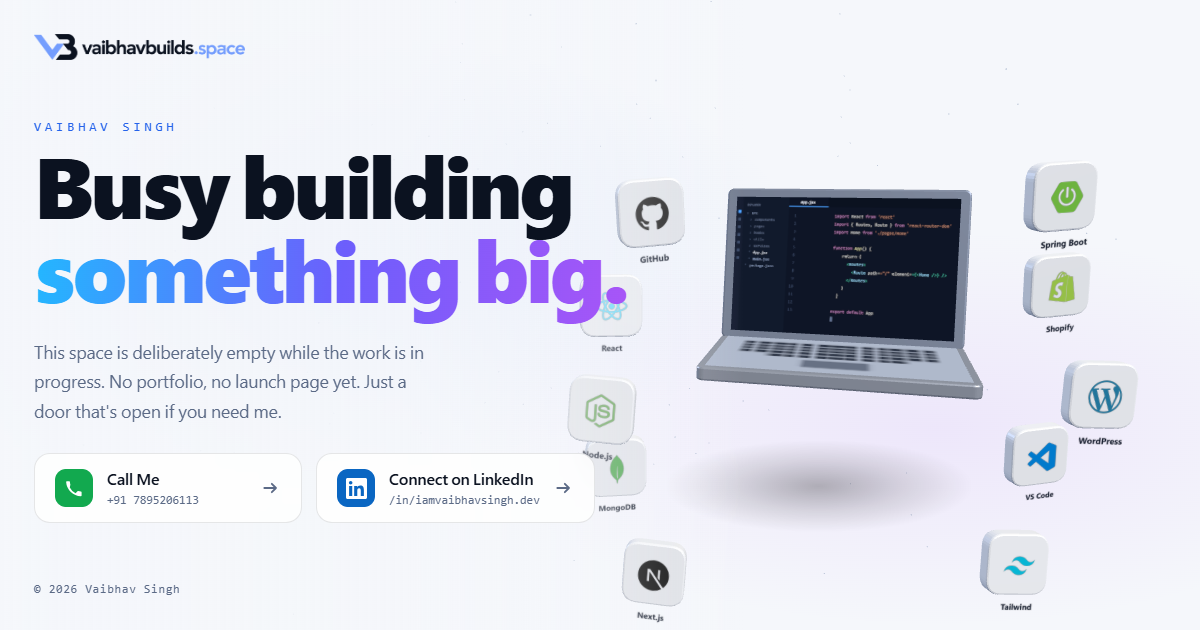
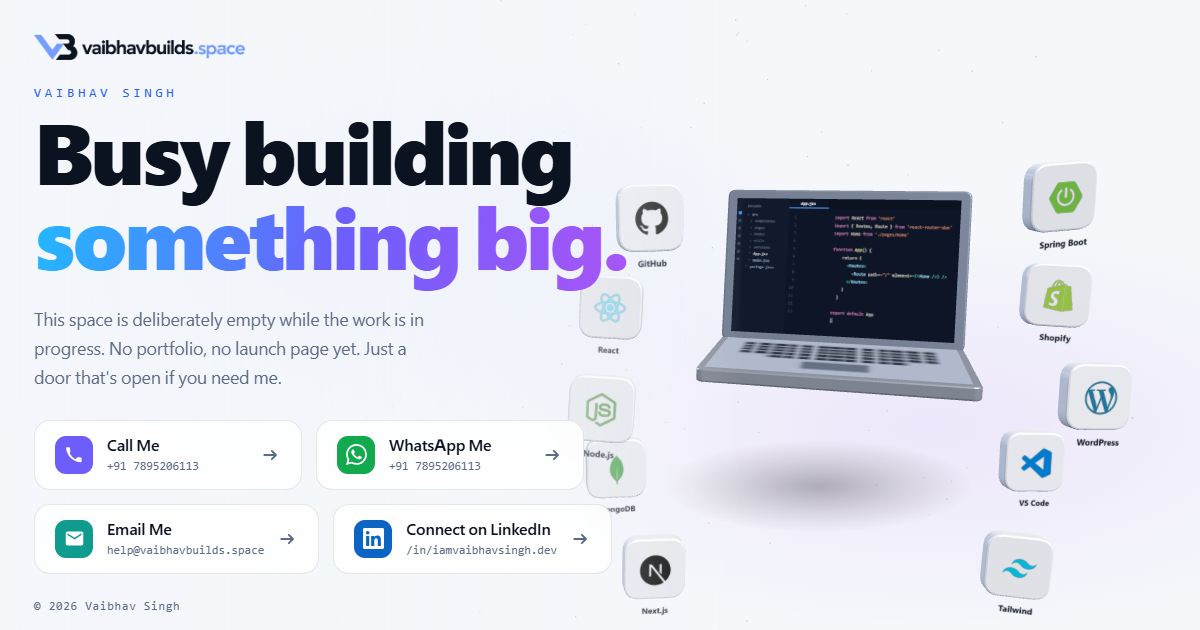
Add WhatsApp and Email CTAs, give Call Me a tel: link
Four contact cards now: phone call, WhatsApp chat, email and LinkedIn.
Each keeps its own accent. The 3D band shrinks to whatever the taller
copy leaves, so the cluster never sits behind the headline on short
phones, and the contact shadow follows the laptop instead of the ring.

diff --git a/index.html b/index.html
@@ -32,6 +32,7 @@
   "@context": "https://schema.org",
   "@type": "Person",
   "name": "Vaibhav Singh",
+  "email": "mailto:help@vaibhavbuilds.space",
   "url": "https://vaibhavbuilds.space/",
   "sameAs": [
     "https://www.linkedin.com/in/iamvaibhavsingh.dev",
@@ -62,8 +63,8 @@
     </p>
 
     <div class="actions">
-      <a class="btn" href="https://wa.me/917895206113?text=Hi%20Vaibhav%2C%20I%20found%20your%20site%20vaibhavbuilds.space" target="_blank" rel="noopener">
-        <span class="btn__icon btn__icon--wa">
+      <a class="btn btn--call" href="tel:+917895206113">
+        <span class="btn__icon">
           <svg viewBox="0 0 24 24" aria-hidden="true"><path d="M6.62 10.79a15.05 15.05 0 0 0 6.59 6.59l2.2-2.2a.86.86 0 0 1 .88-.21c.96.32 1.99.49 3.05.49a.78.78 0 0 1 .78.78V20a.78.78 0 0 1-.78.78A17.5 17.5 0 0 1 2.44 4.5a.78.78 0 0 1 .78-.78H6a.78.78 0 0 1 .78.78c0 1.06.17 2.09.49 3.05a.86.86 0 0 1-.21.88Z"/></svg>
         </span>
         <span class="btn__txt">
@@ -75,8 +76,34 @@
         </span>
       </a>
 
-      <a class="btn" href="https://www.linkedin.com/in/iamvaibhavsingh.dev" target="_blank" rel="noopener">
-        <span class="btn__icon btn__icon--li">
+      <a class="btn btn--wa" href="https://wa.me/917895206113?text=Hi%20Vaibhav%2C%20I%20found%20your%20site%20vaibhavbuilds.space" target="_blank" rel="noopener">
+        <span class="btn__icon">
+          <svg viewBox="0 0 24 24" aria-hidden="true"><path d="M17.472 14.382c-.297-.149-1.758-.867-2.03-.967-.273-.099-.471-.148-.67.15-.197.297-.767.966-.94 1.164-.173.199-.347.223-.644.075-.297-.15-1.255-.463-2.39-1.475-.883-.788-1.48-1.761-1.653-2.059-.173-.297-.018-.458.13-.606.134-.133.298-.347.446-.52.149-.174.198-.298.298-.497.099-.198.05-.371-.025-.52-.075-.149-.669-1.612-.916-2.207-.242-.579-.487-.5-.669-.51-.173-.008-.371-.01-.57-.01-.198 0-.52.074-.792.372-.272.297-1.04 1.016-1.04 2.479 0 1.462 1.065 2.875 1.213 3.074.149.198 2.096 3.2 5.077 4.487.709.306 1.262.489 1.694.625.712.227 1.36.195 1.871.118.571-.085 1.758-.719 2.006-1.413.248-.694.248-1.289.173-1.413-.074-.124-.272-.198-.57-.347m-5.421 7.403h-.004a9.87 9.87 0 01-5.031-1.378l-.361-.214-3.741.982.998-3.648-.235-.374a9.86 9.86 0 01-1.51-5.26c.001-5.45 4.436-9.884 9.888-9.884 2.64 0 5.122 1.03 6.988 2.898a9.825 9.825 0 012.893 6.994c-.003 5.45-4.437 9.884-9.885 9.884m8.413-18.297A11.815 11.815 0 0012.05 0C5.495 0 .16 5.335.157 11.892c0 2.096.547 4.142 1.588 5.945L.057 24l6.305-1.654a11.882 11.882 0 005.683 1.448h.005c6.554 0 11.89-5.335 11.893-11.893a11.821 11.821 0 00-3.48-8.413Z"/></svg>
+        </span>
+        <span class="btn__txt">
+          <strong>WhatsApp Me</strong>
+          <small>+91 7895206113</small>
+        </span>
+        <span class="btn__arrow" aria-hidden="true">
+          <svg viewBox="0 0 24 24"><path d="M4 12h14m0 0-5-5m5 5-5 5" fill="none" stroke="currentColor" stroke-width="2.2" stroke-linecap="round" stroke-linejoin="round"/></svg>
+        </span>
+      </a>
+
+      <a class="btn btn--mail" href="mailto:help@vaibhavbuilds.space">
+        <span class="btn__icon">
+          <svg viewBox="0 0 24 24" aria-hidden="true"><path d="M20 4H4a2 2 0 0 0-2 2v12a2 2 0 0 0 2 2h16a2 2 0 0 0 2-2V6a2 2 0 0 0-2-2Zm0 4-8 5-8-5V6l8 5 8-5v2Z"/></svg>
+        </span>
+        <span class="btn__txt">
+          <strong>Email Me</strong>
+          <small>help@vaibhavbuilds.space</small>
+        </span>
+        <span class="btn__arrow" aria-hidden="true">
+          <svg viewBox="0 0 24 24"><path d="M4 12h14m0 0-5-5m5 5-5 5" fill="none" stroke="currentColor" stroke-width="2.2" stroke-linecap="round" stroke-linejoin="round"/></svg>
+        </span>
+      </a>
+
+      <a class="btn btn--li" href="https://www.linkedin.com/in/iamvaibhavsingh.dev" target="_blank" rel="noopener">
+        <span class="btn__icon">
           <svg viewBox="0 0 24 24" aria-hidden="true"><path d="M20.45 20.45h-3.56v-5.57c0-1.33-.02-3.04-1.85-3.04-1.85 0-2.14 1.45-2.14 2.94v5.67H9.34V9h3.42v1.56h.05c.48-.9 1.64-1.85 3.37-1.85 3.6 0 4.27 2.37 4.27 5.46v6.28ZM5.34 7.43a2.07 2.07 0 1 1 0-4.14 2.07 2.07 0 0 1 0 4.14Zm1.78 13.02H3.55V9h3.57v11.45ZM22.22 0H1.77C.79 0 0 .77 0 1.73v20.5C0 23.22.79 24 1.77 24h20.45c.98 0 1.78-.78 1.78-1.77V1.73C24 .77 23.2 0 22.22 0Z"/></svg>
         </span>
         <span class="btn__txt">
@@ -98,7 +125,8 @@
 <noscript>
   <div class="noscript">
     Vaibhav Singh. Busy building something big.
-    WhatsApp: <a href="https://wa.me/917895206113">+91 7895206113</a>,
+    Call or WhatsApp: <a href="tel:+917895206113">+91 7895206113</a>,
+    Email: <a href="mailto:help@vaibhavbuilds.space">help@vaibhavbuilds.space</a>,
     LinkedIn: <a href="https://www.linkedin.com/in/iamvaibhavsingh.dev">iamvaibhavsingh.dev</a>
   </div>
 </noscript>

diff --git a/assets/js/scene.js b/assets/js/scene.js
@@ -533,7 +533,9 @@ function initScene(THREE) {
       const worldPerPx = visH / h;
       const topPx = topbarEl ? topbarEl.getBoundingClientRect().bottom : h * 0.06;
       const heroPx = copyEl ? copyEl.getBoundingClientRect().top : h * 0.46;
-      const bandPx = Math.max(h * 0.18, heroPx - topPx);
+      // never larger than the gap CSS actually leaves: the canvas is fixed, so an
+      // oversized band would put the 3D behind the headline
+      const bandPx = Math.max(h * 0.14, heroPx - topPx);
       const ext = clusterExtent(layout, TILE_HALF * tileScale);
 
       baseScale = Math.min((visW * 0.94) / ext.w, (bandPx * worldPerPx * 0.95) / ext.h);
@@ -542,11 +544,17 @@ function initScene(THREE) {
       const bandCenterY = 0.28 + (h / 2 - (topPx + bandPx / 2)) * worldPerPx;
       stage.position.x = 0;
       stage.position.y = bandCenterY - ext.cy * baseScale;
+
+      // keep the contact shadow under the laptop, not under the bottom arc
+      shadow.position.y = -0.95;
+      shadow.scale.set(3.1, 0.95, 1);
     } else {
       const clusterW = 2 * (TILE_MAX_X + TILE_HALF);
       baseScale = Math.min((visW * 0.54) / clusterW, (visH * 0.8) / CLUSTER_H);
       stage.position.x = visW * 0.20;
       stage.position.y = -visH * 0.02;
+      shadow.position.y = -1.62;
+      shadow.scale.set(3.5, 1.05, 1);
     }
   }
   window.addEventListener('resize', resize);

diff --git a/assets/css/style.css b/assets/css/style.css
@@ -225,8 +225,14 @@ h1 em{
   color:#fff;
 }
 .btn__icon svg{width:21px;height:21px;fill:currentColor}
-.btn__icon--wa{background:#12a94f}
-.btn__icon--li{background:#0a66c2}
+.btn--call{--accent:#6d5efc}
+.btn--wa{--accent:#12a94f}
+.btn--mail{--accent:#0f9b8e}
+.btn--li{--accent:#0a66c2}
+.btn--call .btn__icon{background:#6d5efc}
+.btn--wa .btn__icon{background:#12a94f}
+.btn--mail .btn__icon{background:#0f9b8e}
+.btn--li .btn__icon{background:#0a66c2}
 
 .btn__txt{
   flex:1 1 auto;
@@ -287,11 +293,12 @@ h1 em{
   .eyebrow{margin-bottom:10px;font-size:11.5px;letter-spacing:.26em}
   h1{font-size:clamp(2.15rem,10.6vw,2.9rem)}
   .lede{margin-top:14px;font-size:14.5px;line-height:1.58}
-  .actions{margin-top:18px;gap:10px}
-  .btn{min-width:0;width:100%;padding:12px 15px;gap:12px;border-radius:14px}
-  .btn__icon{width:34px;height:34px;border-radius:10px}
-  .btn__txt strong{font-size:15px}
-  .btn__txt small{font-size:11px}
+  .actions{margin-top:16px;gap:9px}
+  .btn{min-width:0;width:100%;padding:9px 14px;gap:12px;border-radius:14px}
+  .btn__icon{width:32px;height:32px;border-radius:10px}
+  .btn__icon svg{width:18px;height:18px}
+  .btn__txt strong{font-size:14.5px}
+  .btn__txt small{font-size:10.5px}
 }
 
 @media (prefers-reduced-motion:reduce){
